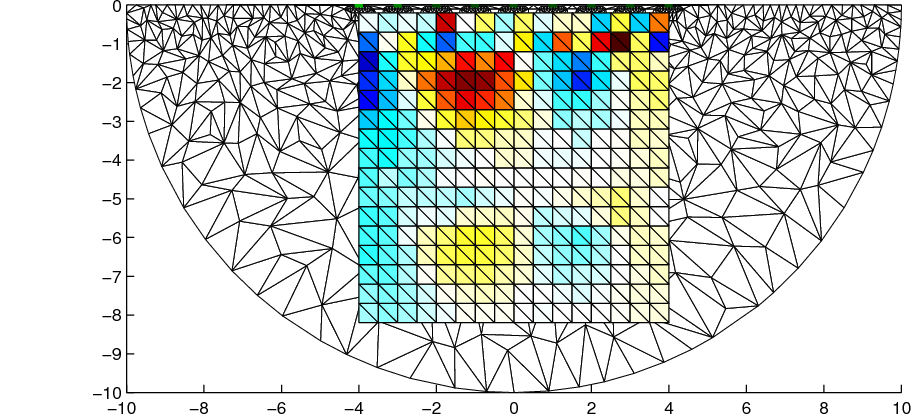
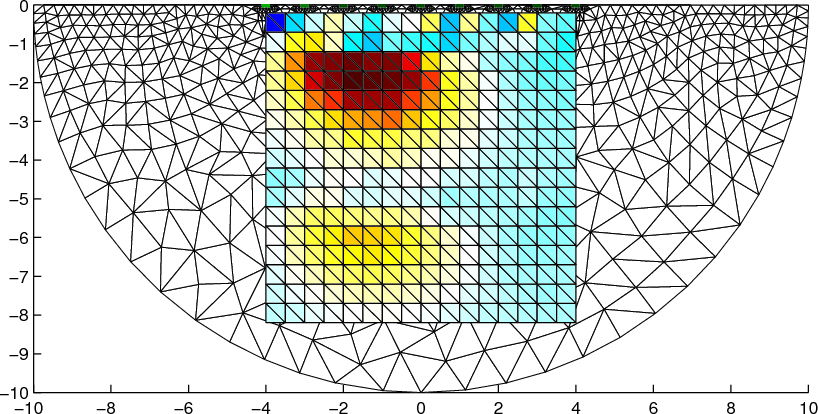
Fix images with low hyperparam
git-svn-id: svn://svn.code.sf.net/p/eidors3d/code/trunk@3876 82006732-fb7e-4a22-9f28-86a212cce563

diff --git a/htdocs/tutorial/distmesh/dm_geophys04.m b/htdocs/tutorial/distmesh/dm_geophys04.m
@@ -11,7 +11,7 @@ c2f= mk_coarse_fine_mapping( fmdl, cmdl);
 imdl.fwd_model.coarse2fine = c2f;
 imdl.RtR_prior = @prior_gaussian_HPF;
 imdl.solve = @inv_solve_diff_GN_one_step;
-imdl.hyperparameter.value= 0.0001;
+imdl.hyperparameter.value= 0.001;
 
 
 imgs= inv_solve(imdl, vh, vi);

diff --git a/htdocs/tutorial/distmesh/dm_geophys00.m b/htdocs/tutorial/distmesh/dm_geophys00.m
@@ -1,0 +1,1 @@
+clear
